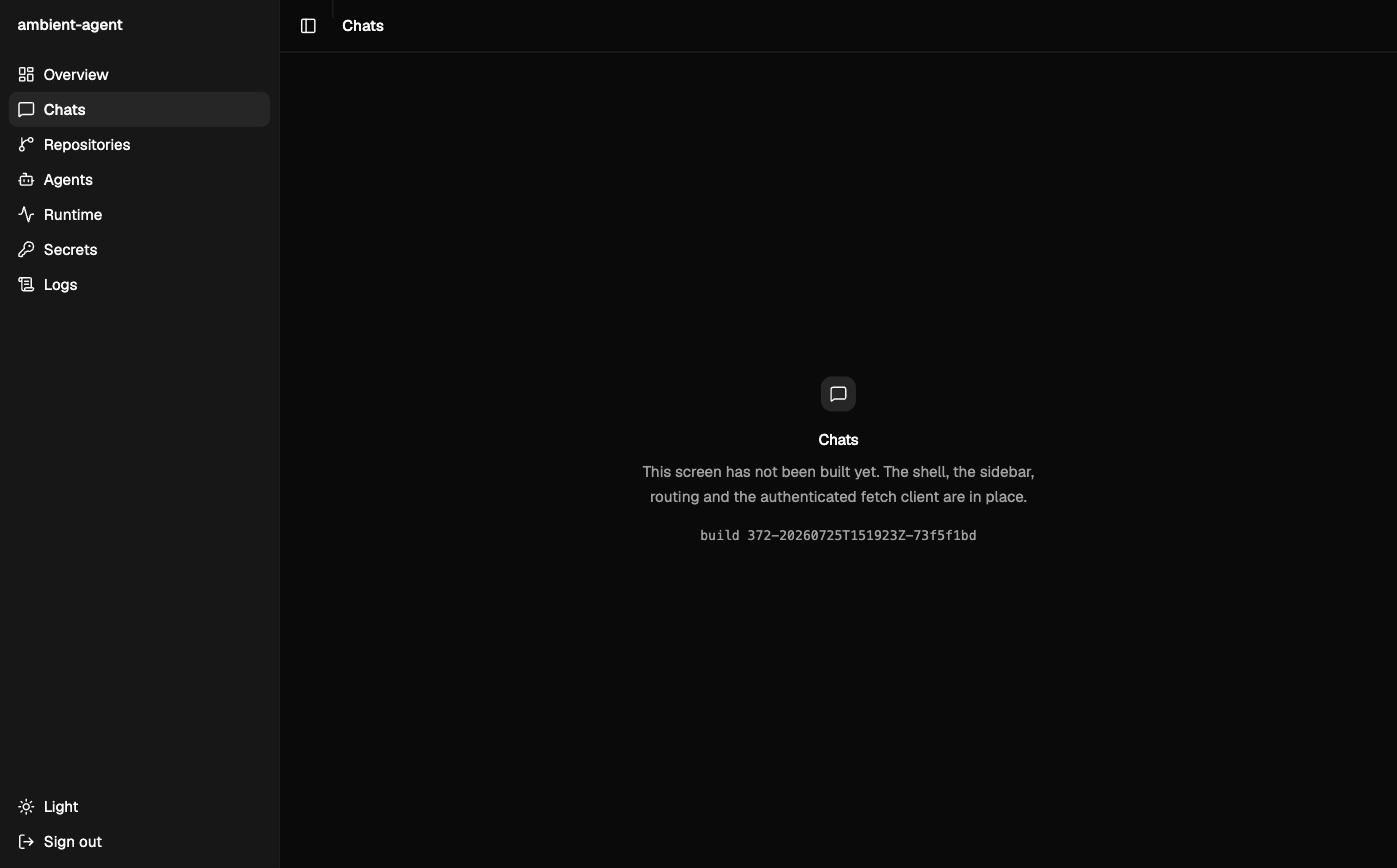
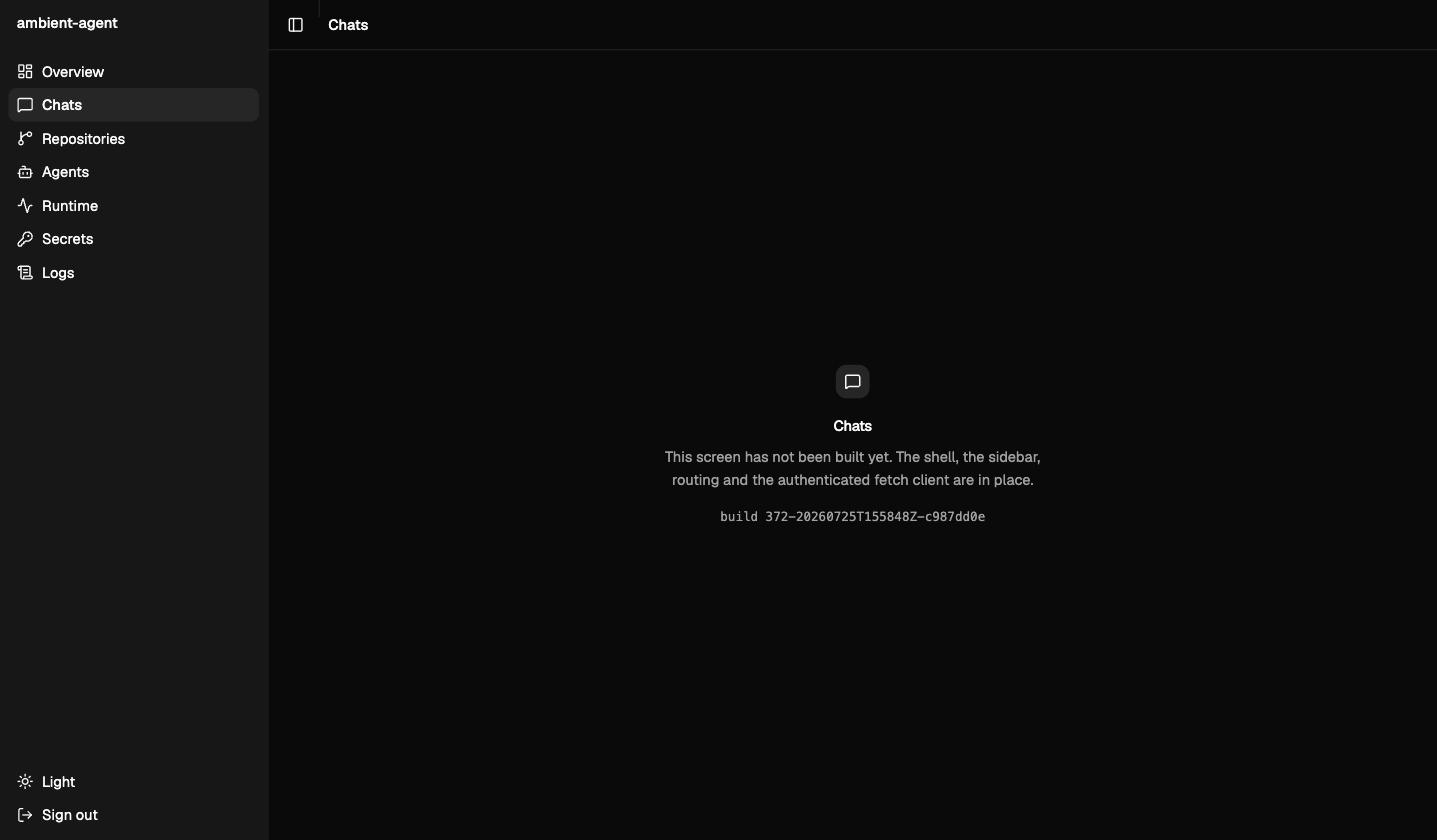
Fix the two blockers review found in the shell file server (#372)
1. An unauthenticated request could kill the process. `new URL(path, dir)`
   discards the base when the decoded path parses as absolute — `/http:/x/y.js`
   yields an `http:` URL, and `fileURLToPath` throws on it, outside the try, in
   an async function whose promise was discarded. One process hosts the runtime
   too, so that was a remote kill switch on the whole install. Resolution is now
   filesystem `resolve` against the root, the containment check uses a trailing
   separator, and the call site catches as a last resort.

2. `extname(p) === ""` was the wrong asset-versus-route test: `extname` of
   `/chats/120363000@g.us` — the literal chat-id shape — is `.us`, so a cold
   load of a real chat deep link 404'd. A path is an asset only when its
   extension is one this build emits.

Also: `nosniff` and `no-cache` on the shell, `new Headers` in `apiFetch` so a
caller's headers survive, longest-path-first route matching to match what it
says it does, and the packed-assets check no longer assumes a single chunk.

Tiers 1, 3 and 4 re-captured end to end against the fixed build; the receipt
carries the new nonce.

diff --git a/apps/cli/src/control-plane.ts b/apps/cli/src/control-plane.ts
@@ -35,7 +35,7 @@
 import { createHash, randomBytes, timingSafeEqual } from "node:crypto";
 import { createServer, type Server, type ServerResponse } from "node:http";
 import { mkdir, readFile } from "node:fs/promises";
-import { extname } from "node:path";
+import { extname, resolve, sep } from "node:path";
 import { fileURLToPath } from "node:url";
 
 import {
@@ -198,22 +198,31 @@ const CONTENT_TYPES: Readonly<Record<string, string>> = {
 /**
  * Serve one file out of the built console, with the SPA fallback that makes deep links load.
  *
- * A request with no file extension is a route inside the application (`/agents`, `/logs`), not a
- * missing asset, so `index.html` answers it and the client-side router takes it from there. A
- * request that names a file and misses is a real 404 — falling back to the shell there would serve
- * HTML to a `<script>` tag and turn a broken build into a mystery.
+ * A request is an *asset* only when it ends in an extension this build actually emits. Everything
+ * else is a route inside the application and is answered with `index.html`, so `/agents` and
+ * `/chats/120363000@g.us` both cold-load — the extension of that second one is `.us`, which is why
+ * "has an extension" is the wrong test. An asset that misses is a real 404: falling back to the
+ * shell there would serve HTML to a `<script>` tag and turn a broken build into a mystery.
+ *
+ * Every failure path in here answers with a status code. This handler is reached *before* the token
+ * gate, so a throw would be an unauthenticated crash of a process that also hosts the runtime.
  */
 const serveShell = async (directory: URL, pathname: string, method: string, response: ServerResponse) => {
-  let file: URL;
+  const root = resolve(fileURLToPath(directory)) + sep;
+  let file: string;
   try {
-    // Decode first: `new URL` normalises `..` but not `%2e%2e`, so an encoded traversal would slip
-    // past the containment check below and only be decoded by `fileURLToPath`.
+    // Decode first: path normalisation does not see `%2e%2e`, so an encoded traversal would
+    // otherwise survive the containment check below.
     const requested = decodeURIComponent(pathname);
-    file = new URL(extname(requested) === "" ? "index.html" : requested.slice(1), directory);
+    const asset = CONTENT_TYPES[extname(requested).toLowerCase()] === undefined ? "index.html" : `.${requested}`;
+    // `resolve` against the root, never `new URL`: a path like `/http:/evil.com/x.js` parses as an
+    // absolute URL with a non-file scheme, and `fileURLToPath` throws on it.
+    file = resolve(root, asset);
   } catch {
     return respond(response, 400, { error: "bad-request" });
   }
-  if (!fileURLToPath(file).startsWith(fileURLToPath(directory))) return respond(response, 404, { error: "not-found" });
+  // The trailing separator matters: without it `dist/web-secrets` would pass as inside `dist/web`.
+  if (!file.startsWith(root)) return respond(response, 404, { error: "not-found" });
   let body: Buffer;
   try {
     body = await readFile(file);
@@ -221,8 +230,12 @@ const serveShell = async (directory: URL, pathname: string, method: string, resp
     return respond(response, 404, { error: "not-found" });
   }
   response.writeHead(200, {
-    "content-type": CONTENT_TYPES[extname(file.pathname)] ?? "application/octet-stream",
+    "content-type": CONTENT_TYPES[extname(file).toLowerCase()] ?? "application/octet-stream",
     "content-length": String(body.byteLength),
+    // The shell is the one unauthenticated surface; do not let a browser guess its way to a
+    // different interpretation of these bytes, and do not let a stale build linger in a cache.
+    "x-content-type-options": "nosniff",
+    "cache-control": "no-cache",
   });
   return response.end(method === "HEAD" ? undefined : body);
 };
@@ -243,7 +256,12 @@ export const createControlPlaneServer = (
     // installation state. Everything under /api/ keeps #364's gate, ahead of its own routing.
     if (!isApi(path)) {
       if (method !== "GET" && method !== "HEAD") return respond(response, 405, { error: "method-not-allowed" });
-      return void serveShell(shellDirectory, path, method, response);
+      // The last resort: an unauthenticated request must never be able to reject a promise nobody
+      // awaits, because an unhandled rejection ends a process that is also hosting the runtime.
+      return void serveShell(shellDirectory, path, method, response).catch(() => {
+        if (!response.headersSent) respond(response, 500, { error: "internal" });
+        response.end();
+      });
     }
     const presented = bearer(request.headers.authorization);
     // The gate runs before API routing, so an unknown API path is refused exactly like a known one

diff --git a/tests/managed/control-plane.test.ts b/tests/managed/control-plane.test.ts
@@ -1,5 +1,5 @@
 import { mkdir, mkdtemp, readFile, readdir, rm, writeFile } from "node:fs/promises";
-import type { Server } from "node:http";
+import { get, type Server } from "node:http";
 import { tmpdir } from "node:os";
 import { join } from "node:path";
 import { pathToFileURL } from "node:url";
@@ -364,7 +364,22 @@ describe("the static console shell", () => {
     const address = server.address();
     if (address === null || typeof address === "string") throw new Error("The shell server bound no TCP address.");
     const origin = `http://127.0.0.1:${address.port}`;
-    return { origin, get: async (path: string) => await fetch(`${origin}${path}`) };
+    return {
+      origin,
+      get: async (path: string) => await fetch(`${origin}${path}`),
+      /**
+       * `fetch` normalises `..` out of a URL before it ever reaches the wire, which would make a
+       * traversal test pass without testing anything. This sends the request line verbatim.
+       */
+      raw: async (path: string) =>
+        await new Promise<number>((resolveStatus, reject) => {
+          const attempt = get({ host: "127.0.0.1", port: address.port, path }, (response) => {
+            response.resume();
+            resolveStatus(response.statusCode ?? 0);
+          });
+          attempt.on("error", reject);
+        }),
+    };
   };
 
   it("serves the shell and its assets without a bearer token", async () => {
@@ -383,22 +398,38 @@ describe("the static console shell", () => {
   it("answers a deep link with the shell, so a cold load of any route works", async () => {
     const shell = await shellServer();
 
-    for (const route of ["/agents", "/logs", "/chats/120363000"]) {
+    // The last one is the shape of a real WhatsApp chat id. Its extension is `.us`, so "does this
+    // path have an extension" is the wrong test for asset-versus-route.
+    for (const route of ["/agents", "/logs", "/chats/120363000", "/chats/120363000@g.us"]) {
       const response = await shell.get(route);
       expect(response.status, route).toBe(200);
       await expect(response.text(), route).resolves.toContain("<title>console</title>");
     }
-    // A path that names a file and misses is a real 404: falling back to the shell there would
-    // serve HTML to a <script> tag and turn a broken build into a mystery.
+    // A path that names a file this build emits and misses is a real 404: falling back to the shell
+    // there would serve HTML to a <script> tag and turn a broken build into a mystery.
     expect((await shell.get("/assets/missing.js")).status).toBe(404);
+    expect((await shell.get("/assets/missing.css")).status).toBe(404);
   });
 
-  it("refuses to serve anything outside the built shell", async () => {
+  it("refuses to serve anything outside the built shell, and never dies trying", async () => {
     const shell = await shellServer();
 
-    for (const escape of ["/../../etc/passwd.js", "/%2e%2e/%2e%2e/etc/passwd.js", "/assets/../../secret.js"]) {
-      expect((await shell.get(escape)).status, escape).toBe(404);
+    const escapes = [
+      "/../../etc/passwd.js",
+      "/%2e%2e/%2e%2e/etc/passwd.js",
+      "/assets/../../secret.js",
+      // Parsed as an absolute URL with a non-file scheme by anything that resolves it as a URL —
+      // and an unauthenticated request must never be able to throw inside this handler.
+      "/http:/evil.com/x.js",
+      "/%68ttp:/evil.com/x.js",
+      // A sibling directory whose name merely starts with the shell's own.
+      "/../web-secrets/token.js",
+    ];
+    for (const escape of escapes) {
+      expect(await shell.raw(escape), escape).toBe(404);
     }
+    // Still serving: none of the above took the process, or the server, down.
+    expect((await shell.get("/")).status).toBe(200);
   });
 
   it("keeps every /api/ path gated exactly as #364 merged it", async () => {

diff --git a/tests/packaging/packed-cli.test.ts b/tests/packaging/packed-cli.test.ts
@@ -229,9 +229,14 @@ describe("packed ambient-agent executable", () => {
     const index = await readFile(join(web, "index.html"), "utf8");
     expect(index).toContain('<div id="root">');
     const assets = await readdir(join(web, "assets"));
-    expect(assets.filter((asset) => asset.endsWith(".js")), "a built script").not.toHaveLength(0);
-    expect(assets.filter((asset) => asset.endsWith(".css")), "a built stylesheet").not.toHaveLength(0);
-    for (const asset of assets) expect(index.includes(asset) || asset.endsWith(".woff2")).toBe(true);
+    const scripts = assets.filter((asset) => asset.endsWith(".js"));
+    const stylesheets = assets.filter((asset) => asset.endsWith(".css"));
+    expect(scripts, "a built script").not.toHaveLength(0);
+    expect(stylesheets, "a built stylesheet").not.toHaveLength(0);
+    // The entry pair is what `index.html` loads. Later screens may split further chunks out; those
+    // are reached from the entry, not from here, so this asserts the entry only.
+    expect(scripts.some((script) => index.includes(script)), "the entry script is referenced").toBe(true);
+    expect(stylesheets.some((sheet) => index.includes(sheet)), "the entry stylesheet is referenced").toBe(true);
   });
 
   it("resolves the installed production runtime dependencies without test hooks or a checkout", async () => {

diff --git a/apps/web/src/lib/api.ts b/apps/web/src/lib/api.ts
@@ -43,10 +43,15 @@ export class UnauthorizedError extends Error {
   }
 }
 
-const authorized = (token: string, init: RequestInit): RequestInit => ({
-  ...init,
-  headers: { ...init.headers, authorization: `Bearer ${token}` },
-})
+/**
+ * `new Headers` rather than a spread: `init.headers` may be a `Headers` or an array of pairs, and
+ * spreading either of those silently drops every header a caller set.
+ */
+const authorized = (token: string, init: RequestInit): RequestInit => {
+  const headers = new Headers(init.headers)
+  headers.set("authorization", `Bearer ${token}`)
+  return { ...init, headers }
+}
 
 /**
  * A `GET /api/...` (or any method via `init`) against the control plane, carrying the token.

diff --git a/apps/web/src/routes.tsx b/apps/web/src/routes.tsx
@@ -113,9 +113,15 @@ export const ROUTES: readonly ConsoleRoute[] = [
   },
 ]
 
+/**
+ * Sidebar order is for humans; matching order is longest-path-first, so `/chats/archive` beats
+ * `/chats` whichever way round a screen node adds them.
+ */
+const BY_SPECIFICITY = [...ROUTES].sort((a, b) => b.path.length - a.path.length)
+
 /** Longest-prefix match, with Overview as the root and the answer for anything unrecognised. */
 export const routeFor = (pathname: string): ConsoleRoute =>
-  ROUTES.find(
+  BY_SPECIFICITY.find(
     (route) =>
       route.path !== "/" &&
       (pathname === route.path || pathname.startsWith(`${route.path}/`))

diff --git a/docs/receipts/372-2026-07-25/README.md b/docs/receipts/372-2026-07-25/README.md
@@ -8,12 +8,12 @@ location**, not the working tree.
 ## The artifact under test
 
 ```
-npm pack  →  ambient-agent-0.4.0.tgz  (shasum eb348d0d9d8febb583ab295c2006805f8b35f87e)
+npm pack  →  ambient-agent-0.4.0.tgz  (sha1 e14994b8b93c622132e20117fb13b4ffbaa23d5e)
            →  installed with `npm install` into /tmp/372-live
            →  started: node node_modules/ambient-agent/dist/cli/main.js --data-dir … --control-port 4757
 ```
 
-**Nonce:** `372-20260725T151923Z-73f5f1bd`, minted at pack time, baked in as `VITE_BUILD_NONCE`,
+**Nonce:** `372-20260725T155848Z-c987dd0e`, minted at pack time, baked in as `VITE_BUILD_NONCE`,
 rendered into every placeholder route *and* into `index.html`, and read back off the served
 response of the installed tarball (`artifacts/tier4-readback.txt`).
 
@@ -21,9 +21,9 @@ response of the installed tarball (`artifacts/tier4-readback.txt`).
 
 | tier | what it proves | evidence |
 |---|---|---|
-| 1 mechanical | `pnpm run typecheck && pnpm test` green; the no-custom-styling criterion is enforced by a check | `tests/web/console.test.ts` (2 tests), `tests/speaker/hard-cut.test.ts`, `tests/managed/control-plane.test.ts` (11 tests). Suite: 85 files, 846 passed |
+| 1 mechanical | `pnpm run typecheck && pnpm test` green; the no-custom-styling criterion is enforced by a check | `tests/web/console.test.ts` (2 tests), `tests/speaker/hard-cut.test.ts`, `tests/managed/control-plane.test.ts` (11 tests). Suite: 85 files, 847 passed |
 | 2 integrated | N/A | N/A |
-| 3 live (branch) | every route visited in Chrome in both colour schemes, from the installed tarball, plus a deep link and a browser reload | `screenshots/{light,dark}-{overview,chats,repositories,agents,runtime,secrets,logs}.jpg`, `screenshots/dark-sign-in.jpg`, `screenshots/navigation.gif` |
+| 3 live (branch) | every route visited in Chrome in both colour schemes, from the installed tarball, plus a deep link and a browser reload | `screenshots/{light,dark}-{overview,chats,repositories,agents,runtime,secrets,logs}.jpg`, `screenshots/light-sign-in.jpg`, `screenshots/navigation.gif` |
 | 4 readback | the tarball's file list contains the built assets; the served bytes are the built bytes | `artifacts/tarball-filelist.txt`, `artifacts/tier4-readback.txt` |
 | 5 observed | N/A | N/A |
 
@@ -51,9 +51,18 @@ GET /api/unknown  no token  -> 401     ← gate before routing, unchanged
 GET /api/status   token     -> 200
 GET /api/unknown  token     -> 404
 GET /  /chats  /repositories  /agents  /runtime  /secrets  /logs  -> 200 text/html
+GET /chats/120363000@g.us -> 200 text/html   ← a dotted deep link is a route, not a missing asset
 GET /assets/missing.js -> 404          ← a named file that misses is a real 404
-GET /../../etc/passwd.js -> 404        ← and the encoded form too
+GET /../../etc/passwd.js -> 404        ← the encoded form too, and /http:/evil.com/x.js
+GET / -> 200                           ← still serving: none of the above killed the process
 ```
+
+The full probe, including the six containment cases and the `nosniff` / `no-cache` headers, is in
+`artifacts/tier4-readback.txt`. Independent review of this PR found two blockers in this file
+server — an unauthenticated request that could crash the process, and a deep link with a dot in it
+that 404'd. Both are fixed, both are now regression-tested in
+`tests/managed/control-plane.test.ts`, and **every tier here was re-captured against the fixed
+build** (hence the second nonce).
 
 ## Workspace re-inclusion
 
